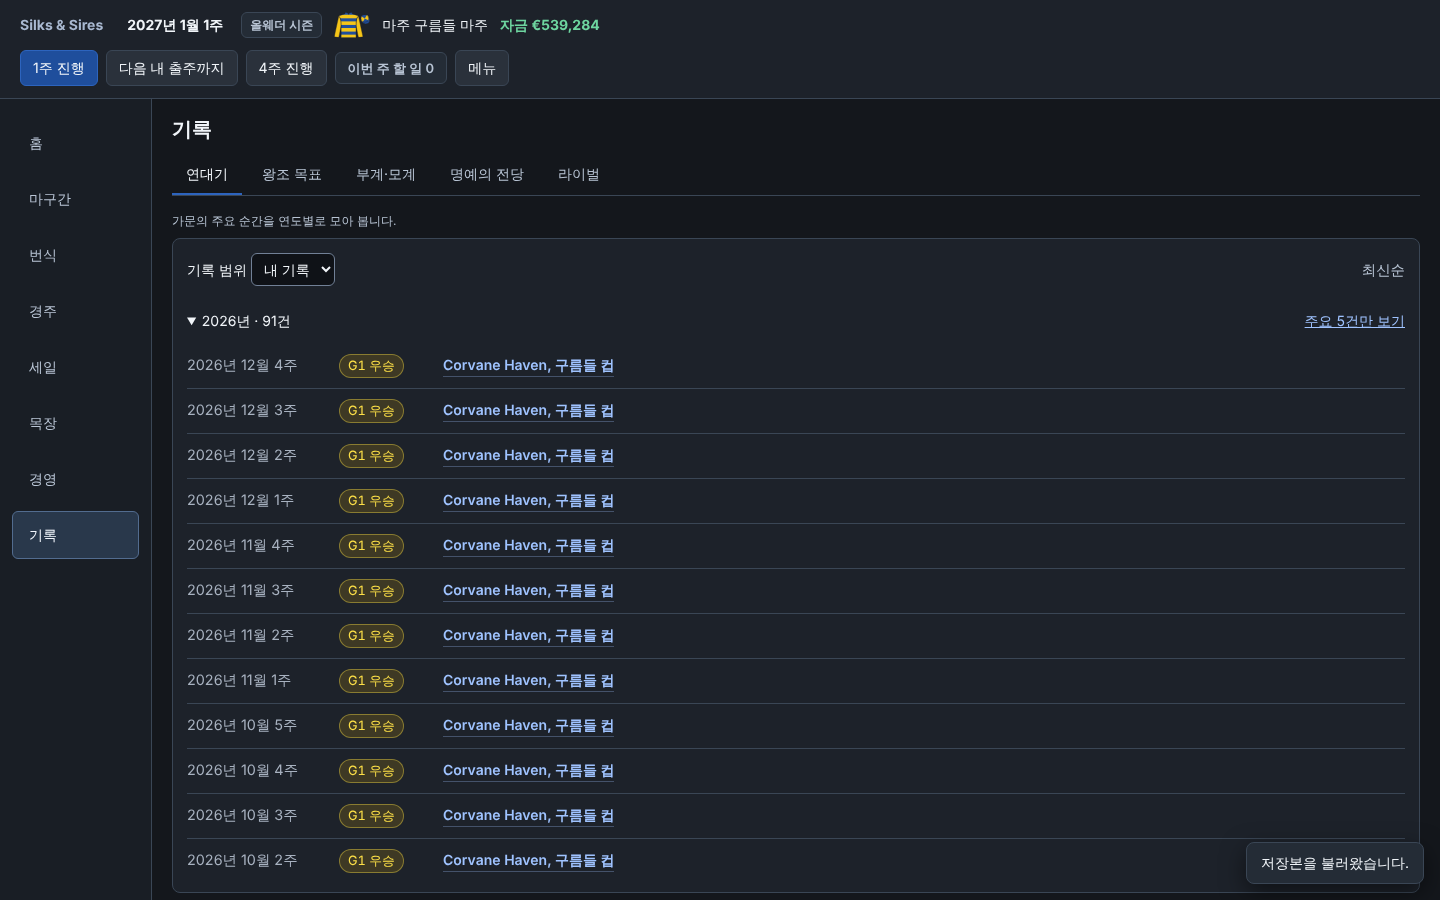
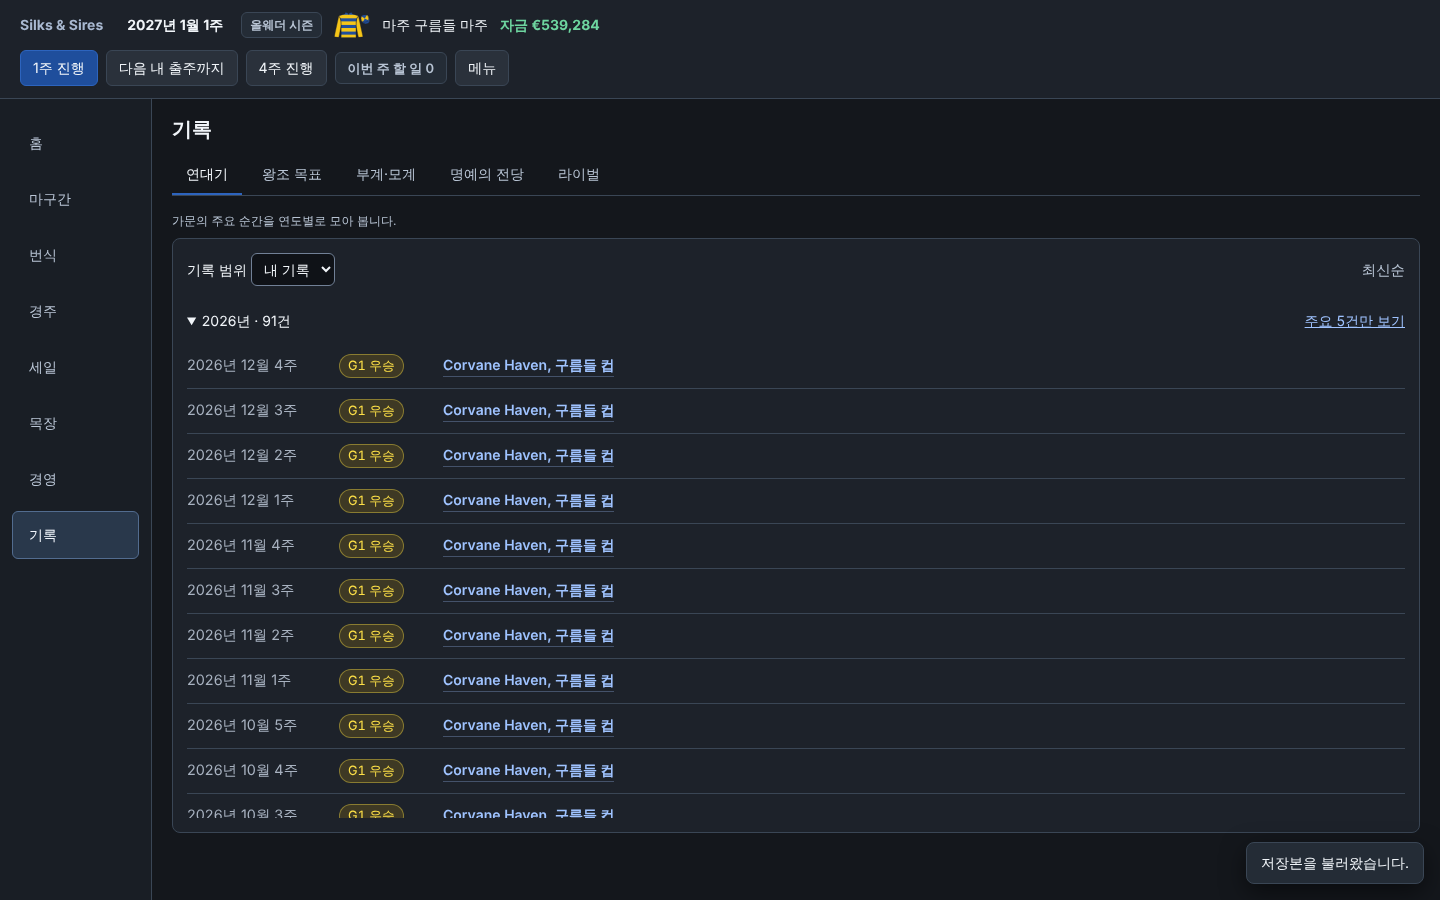
M6: 아르곤 4차 검토 마감(위험 버튼 명시도·연대기 높이·확인창 사유·꺾쇠 통일)
Claude-Session: https://claude.ai/code/session_01CjhTb2wDE2cpgp61tYdBZj

Changed region(s): [[0.3125, 0.9022, 0.4375, 0.9644], [0.2188, 0.9022, 0.2812, 0.9956], [0.125, 0.9022, 0.1875, 0.9644]]

diff --git a/tests/ui/matingPlanView.test.ts b/tests/ui/matingPlanView.test.ts
@@ -153,36 +153,39 @@ describe('종합 판단 (matingJudgement)', () => {
     expect(INBREED_CAUTION_PERCENT).toBe(12.5);
     expect(INBREED_RISK_PERCENT).toBe(18.75);
     expect(matingJudgement({ complement: 'likely', nick: 'good', inbreedPercent: 6 }))
-      .toEqual({ summary: '궁합 좋음 · 니크 좋음', tone: 'good' });
+      .toMatchObject({ summary: '궁합 좋음 · 니크 좋음', tone: 'good' });
     expect(matingJudgement({ complement: 'likely', nick: 'unknown', inbreedPercent: 12.5 }))
-      .toEqual({ summary: '궁합 좋음', tone: 'good' });
+      .toMatchObject({ summary: '궁합 좋음', tone: 'good' });
     expect(matingJudgement({ complement: 'likely', nick: 'unknown', inbreedPercent: 13 }))
-      .toEqual({ summary: '주의 — 근친 검토 필요 · 궁합 좋음', tone: 'warn' });
+      .toMatchObject({ summary: '주의 — 근친 검토 필요 · 궁합 좋음', tone: 'warn' });
     expect(matingJudgement({ complement: 'unlikely', nick: null, inbreedPercent: 18.75 }))
-      .toEqual({ summary: '주의 — 근친 검토 필요', tone: 'warn' });
+      .toMatchObject({ summary: '주의 — 근친 검토 필요', tone: 'warn' });
     expect(matingJudgement({ complement: 'unlikely', nick: null, inbreedPercent: 19 }))
-      .toEqual({ summary: '위험 — 근친 검토 필요', tone: 'danger' });
+      .toMatchObject({ summary: '위험 — 근친 검토 필요', tone: 'danger' });
   });
 
   it('주의 문구가 첫 배지이고 긍정 요소는 뒤에 1개까지만 붙는다(나머지는 근거)', () => {
     // 근친 주의 + 궁합·니크 둘 다 긍정: 주의 첫, 긍정은 1개(궁합)만
     expect(matingJudgement({ complement: 'likely', nick: 'excellent', inbreedPercent: 13 }))
-      .toEqual({ summary: '주의 — 근친 검토 필요 · 궁합 좋음', tone: 'warn' });
+      .toMatchObject({ summary: '주의 — 근친 검토 필요 · 궁합 좋음', tone: 'warn' });
     // 근친 위험이 니크 나쁨보다 먼저, 니크 나쁨은 근거로 간다
     expect(matingJudgement({ complement: 'unlikely', nick: 'poor', inbreedPercent: 19 }))
-      .toEqual({ summary: '위험 — 근친 검토 필요', tone: 'danger' });
+      .toMatchObject({ summary: '위험 — 근친 검토 필요', tone: 'danger' });
     // 니크 나쁨만 있으면 니크 문구가 첫 배지, 궁합 좋음은 뒤에
     expect(matingJudgement({ complement: 'likely', nick: 'poor', inbreedPercent: 0 }))
-      .toEqual({ summary: '주의 — 니크 나쁨 · 궁합 좋음', tone: 'warn' });
+      .toMatchObject({ summary: '주의 — 니크 나쁨 · 궁합 좋음', tone: 'warn' });
   });
 
   it('니크 나쁨은 주의 톤이고, 판단 정보가 없으면 판단 정보 없음으로 보인다', () => {
     expect(matingJudgement({ complement: 'unknown', nick: 'poor', inbreedPercent: 0 }))
-      .toEqual({ summary: '주의 — 니크 나쁨', tone: 'warn' });
+      .toMatchObject({ summary: '주의 — 니크 나쁨', tone: 'warn', reason: '니크 나쁨' });
+    // 확인창 목록용 사유는 주의·위험 접두와 긍정 요소 없이 사유만(아르곤 4차)
+    expect(matingJudgement({ complement: 'likely', nick: null, inbreedPercent: 30 }).reason).toBe('근친 검토 필요');
+    expect(matingJudgement({ complement: 'likely', nick: null, inbreedPercent: 0 }).reason).toBeUndefined();
     expect(matingJudgement({ complement: 'unknown', nick: 'neutral', inbreedPercent: 0 }))
-      .toEqual({ summary: '특이 사항 없음', tone: 'muted' });
+      .toMatchObject({ summary: '특이 사항 없음', tone: 'muted' });
     expect(matingJudgement({ complement: null, nick: null, inbreedPercent: null }))
-      .toEqual({ summary: '판단 정보 없음', tone: 'muted' });
+      .toMatchObject({ summary: '판단 정보 없음', tone: 'muted' });
   });
 
   it('제안 상태 톤: 검토 대기 주의, 승인·예약 좋음, 안 함 중립', () => {

diff --git a/src/ui/breeding/matingPlanView.ts b/src/ui/breeding/matingPlanView.ts
@@ -41,6 +41,8 @@ export interface MatingJudgement {
   /** 한 줄 요약. 예: '궁합 좋음 · 근친 주의' */
   summary: string;
   tone: JudgementTone;
+  /** 주의·위험이면 사유만(예: '근친 검토 필요'). 확인창 목록용(아르곤 4차 검토) */
+  reason?: string;
 }
 
 /** 종합 판단 입력: 보완형 가능성, 공개 니크, 근친 혈량(%). 판단 불가면 null. */
@@ -66,19 +68,20 @@ export function matingJudgement(input: MatingJudgementInput): MatingJudgement {
   const positives: string[] = [];
   if (input.complement === 'likely') positives.push('궁합 좋음');
   if (input.nick === 'excellent' || input.nick === 'good') positives.push('니크 좋음');
-  let lead: string | null = null;
+  let reason: string | null = null;
   let leadTone: JudgementTone = 'warn';
   if (input.inbreedPercent > INBREED_RISK_PERCENT) {
-    lead = '위험 — 근친 검토 필요';
+    reason = '근친 검토 필요';
     leadTone = 'danger';
   } else if (input.inbreedPercent > INBREED_CAUTION_PERCENT) {
-    lead = '주의 — 근친 검토 필요';
+    reason = '근친 검토 필요';
   } else if (input.nick === 'poor') {
-    lead = '주의 — 니크 나쁨';
+    reason = '니크 나쁨';
   }
-  if (lead !== null) {
+  if (reason !== null) {
+    const lead = `${leadTone === 'danger' ? '위험' : '주의'} — ${reason}`;
     const parts = [lead, ...positives.slice(0, MATING_POSITIVE_AFTER_RISK)];
-    return { summary: parts.join(' · '), tone: leadTone };
+    return { summary: parts.join(' · '), tone: leadTone, reason };
   }
   if (positives.length === 0) return { summary: '특이 사항 없음', tone: 'muted' };
   return { summary: positives.join(' · '), tone: 'good' };

diff --git a/tests/ui/shellSettings.test.ts b/tests/ui/shellSettings.test.ts
@@ -71,13 +71,15 @@ describe('새 게임 확인 문구 (A1)', () => {
 });
 
 describe('새 게임 위험 버튼 (M6-W 항목 22)', () => {
-  it('위험 버튼 규칙은 위험 토큰 배경·테두리와 밝은 글자를 쓰고 새 색 코드를 넣지 않는다', () => {
+  it('위험 버튼 규칙은 .btn 보다 명시도가 높고 위험 토큰 색(테두리·글자, 배경은 위험 글자색 옅게)을 쓴다', () => {
     const css = readFileSync(new URL('../../src/ui/shell/shell.css', import.meta.url), 'utf8');
-    const rule = css.match(/\.shell-danger__button\s*\{([^}]*)\}/)?.[1] ?? '';
-    expect(rule).toContain('background: var(--danger-bg)');
+    // .btn(app.css)과 같은 명시도면 덮이므로 .btn.shell-danger__button 으로 둔다(아르곤 4차 검토).
+    const rule = css.match(/\.btn\.shell-danger__button\s*\{([^}]*)\}/)?.[1] ?? '';
     expect(rule).toContain('border-color: var(--danger-fg)');
-    expect(rule).toContain('color: var(--text)');
-    expect(rule).not.toMatch(/#[0-9a-fA-F]{3,8}|rgba?\(/);
+    expect(rule).toContain('color: var(--danger-fg)');
+    // 배경은 --danger-fg(#ff9191)와 같은 rgb 의 옅은 칠만 허용 — 새 색 코드 금지
+    expect(rule).toMatch(/background: rgba\(255, 145, 145, 0\.\d+\)/);
+    expect(rule).not.toMatch(/#[0-9a-fA-F]{3,8}/);
   });
 });
 

diff --git a/src/ui/shell/shell.css b/src/ui/shell/shell.css
@@ -139,11 +139,15 @@
   color: var(--danger-fg);
 }
 /* 새 게임으로 이동: 위험 버튼(위험 토큰 배경·테두리, 밝은 글자). 취소는 기본 .btn 그대로 둔다(M6-W 항목 22). */
-.shell-danger__button {
-  background: var(--danger-bg);
+.btn.shell-danger__button {
+  /* .btn(app.css)과 명시도가 같아 덮이던 것을 .btn 을 붙여 높임. 배경은 위험 영역 바탕(--danger-bg)과 구분되게 위험 글자색을 옅게 깐다(아르곤 4차). */
+  background: rgba(255, 145, 145, 0.22);
   border-color: var(--danger-fg);
-  color: var(--text);
+  color: var(--danger-fg);
   font-weight: 600;
+}
+.btn.shell-danger__button:hover:not(:disabled) {
+  background: rgba(255, 145, 145, 0.32);
 }
 .shell-modal .hint {
   margin: 4px 0 8px;

diff --git a/src/ui/season/calendar.css b/src/ui/season/calendar.css
@@ -274,3 +274,27 @@
       '. conditions';
   }
 }
+
+/* 하단 '이번 주·다음 주 개최' 펼침 표시도 주 행과 같은 꺾쇠 모양으로(아르곤 4차: ▸ 와 > 혼용 해소). */
+.cal-meetings > summary {
+  list-style: none;
+  display: flex;
+  align-items: center;
+  gap: 8px;
+  cursor: pointer;
+}
+.cal-meetings > summary::-webkit-details-marker {
+  display: none;
+}
+.cal-meetings > summary::before {
+  content: '';
+  width: 7px;
+  height: 7px;
+  margin: 0 3px;
+  border-right: 2px solid var(--text-muted);
+  border-bottom: 2px solid var(--text-muted);
+  transform: rotate(-45deg);
+}
+.cal-meetings[open] > summary::before {
+  transform: rotate(45deg);
+}

diff --git a/src/ui/breeding/MatingPlanPanel.tsx b/src/ui/breeding/MatingPlanPanel.tsx
@@ -75,7 +75,7 @@ export function MatingApproveDialog({
               {flagged.map((r) => (
                 <li key={rowKeyOf(r)} className="mating-plan__flag">
                   <span className={`mating-plan__flag-text mating-plan__flag-text--${r.judgement.tone}`}>
-                    {`${r.mareName} × ${r.stallionName} — ${r.judgement.summary}`}
+                    {`${r.mareName} × ${r.stallionName} — ${r.judgement.reason ?? r.judgement.summary}`}
                   </span>
                   <button type="button" className="btn" onClick={() => onReview?.(r)}>검토</button>
                 </li>

diff --git a/src/ui/season/SeasonScreen.tsx b/src/ui/season/SeasonScreen.tsx
@@ -74,7 +74,7 @@ export default function SeasonScreen({
                 />
               ))}
             </ul>
-            <details className="meeting-details">
+            <details className="meeting-details cal-meetings">
               <summary>이번 주·다음 주 개최 ({meetings.length}곳)</summary>
               <p className="hint">
                 출주 계획은 말 상세에서 계획 관리합니다. 말 이름을 누르면 출주 계획 탭이 열립니다.

diff --git a/src/ui/legacy/legacy.css b/src/ui/legacy/legacy.css
@@ -8,7 +8,7 @@
 .legacy-toolbar + .legacy-scroll {
   box-sizing: border-box;
   height: auto;
-  max-height: calc(100dvh - 320px);
+  max-height: calc(100dvh - 380px);
   padding-bottom: 12px;
 }
 

diff --git a/docs/decisions.md b/docs/decisions.md
@@ -415,3 +415,4 @@
 - 2026-10-17 M6-W3 승인(Haiku): 세일 판매 탭 — 위 판매 제안·개인 거래 제안 두 칸(내용 높이), 아래 내 말 출품 전체 폭(세일 선택 min-width 260px, 세일 이름 잘림 해소). 출품 행 '상태' 열(미출품/출품됨/카탈로그 등록됨)·비활성 취소 사유, 위탁 기한 옆 발표 주·'이후 위탁 불가'. 후원 막대 트랙 8px·--bg·--input-border. 판매 알림 토스트(로트 상세 대화상자는 그대로). NH 스토어 칸은 개인 거래 제안 아래 유지.
 - 2026-10-17 M6-W4 승인(Haiku): 연대기 본문에서 종류 배지 문구 반복 제거(전 17종 테스트 — G1 우승·첫 승·시리즈 등), 구분자는 엔진 문장 형식 ', ' 유지. '전체 N건 보기' 펼친 뒤 연도 머리줄 오른쪽 '주요 5건만 보기', 목록 내부 스크롤 calc(100dvh - 320px)·padding-bottom 12px. 가변 행 높이라 스크롤 경계의 행 단위 끝맺음(scroll-snap)은 넣지 않음.
 - 2026-10-17 M6-S 착수: Codex 대신 Haiku 4티켓(S1 압축 저장 계층·S2 크기 측정 병렬 → S3 저장 칸 → S4 파일 내보내기·가져오기). 공용 인터페이스(Opus): SaveSlotMeta.bytes?, AUTOSAVE_SLOT_ID·MANUAL_SLOT_IDS(3칸)를 saveStore.ts 로 옮김.
+- 2026-10-17 아르곤 4차 검토 마감(Opus 직접, 50줄 이하): 새 게임 위험 버튼이 .btn 과 명시도가 같아 덮이던 것을 .btn.shell-danger__button 으로 높이고 배경을 위험 글자색 옅게(바탕 --danger-bg 와 구분), 연대기 펼친 목록 max-height 100dvh-380px(카드가 900px 안), 확인창 목록은 MatingJudgement.reason(사유만), 캘린더 하단 펼침 표시를 주 행과 같은 꺾쇠로. 혈통 3대 경계선은 촬영본에서 맞아 손대지 않음, 5대 넘침은 스크롤 허용 유지. 남은 ★ 는 M6-T.
